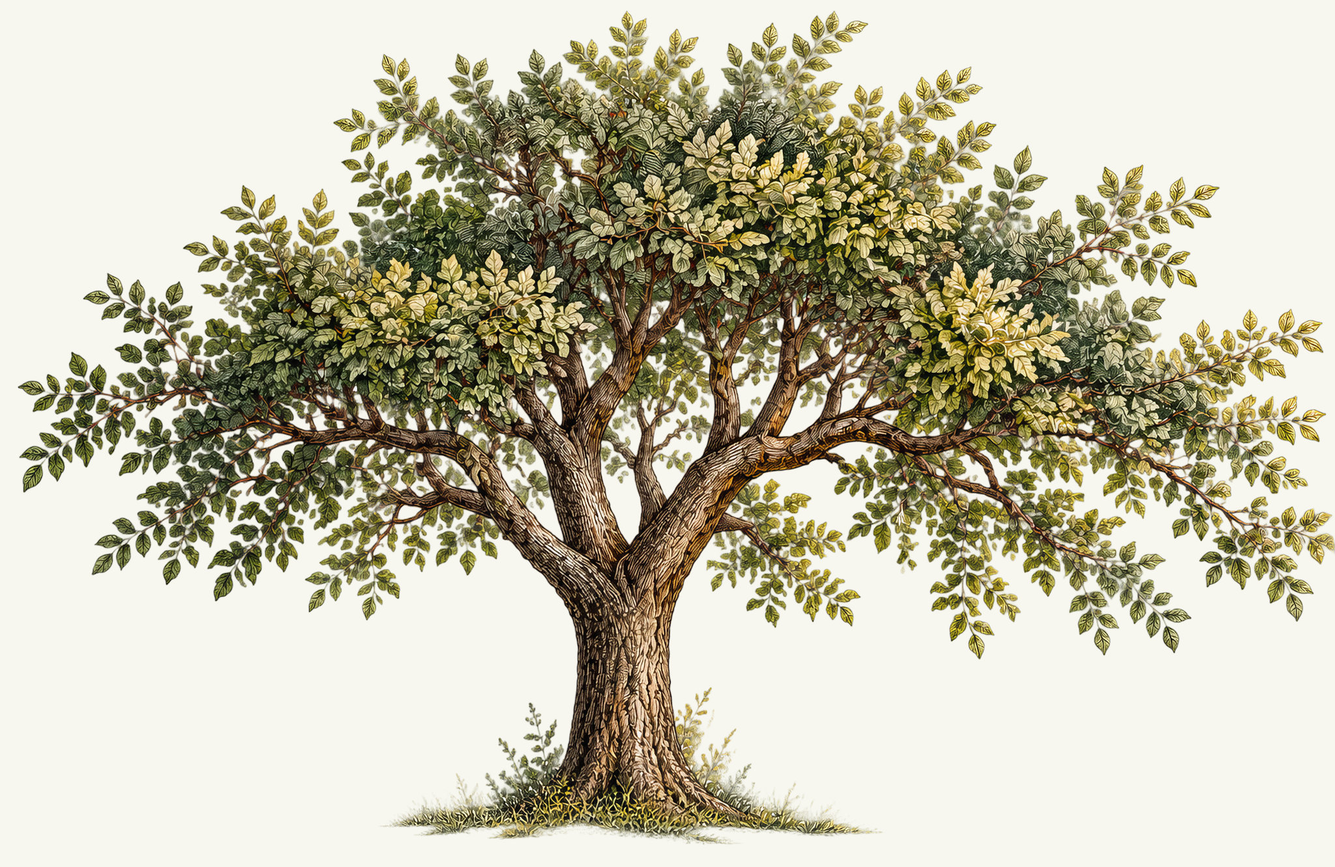
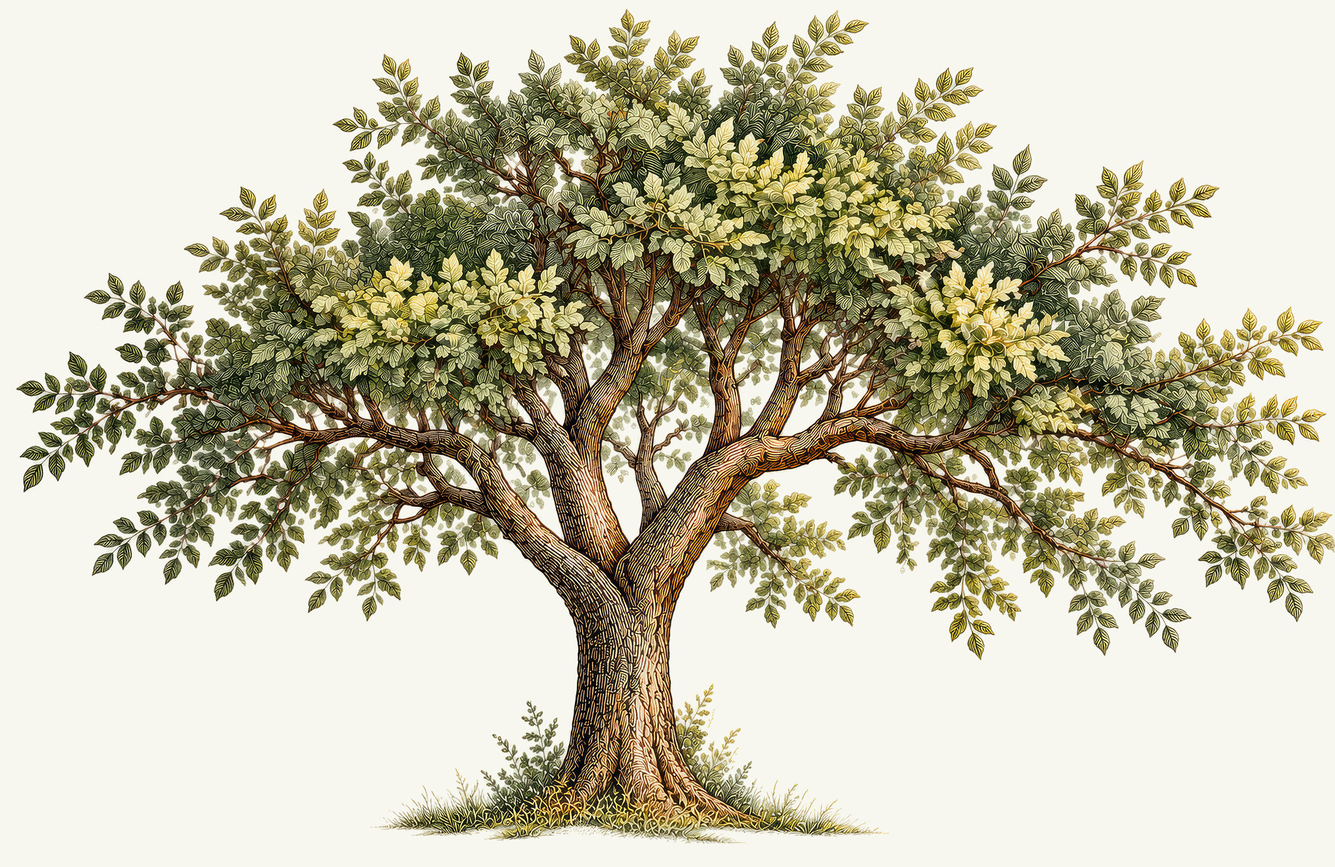
Updated hero tree image

diff --git a/index.html b/index.html
@@ -31,7 +31,7 @@
     <div class="hero-stage">
     <div class="hero-copy"><p class="eyebrow">Terapi Gibi Akademi · Istanbul</p><h1 id="hero-title">There’s a place at this <br>table for you, too!</h1><p class="hero-intro">We read, think and make things together.</p><div class="actions"><a class="button" href="#calendar">Explore the calendar</a><a class="text-link" href="#about">Meet the Akademi</a></div></div>
     <div class="scene-scroll" aria-label="Three different seats beneath a tree: an open invitation to come together.">
-      <div class="scene-sticky"><div class="scene"><canvas class="fx fx-back" aria-hidden="true"></canvas><img class="tree" src="assets-v3/hero-tree.jpg" alt="" fetchpriority="high"><img class="seats" src="assets-v3/hero-seats.png" alt="" fetchpriority="high"><canvas class="fx fx-front" aria-hidden="true"></canvas></div><p class="scroll-cue">Slow down. There’s room for you. <span>↓</span></p></div>
+      <div class="scene-sticky"><div class="scene"><canvas class="fx fx-back" aria-hidden="true"></canvas><img class="tree" src="assets-v3/hero-tree.jpg?v=2" alt="" fetchpriority="high"><img class="seats" src="assets-v3/hero-seats.png" alt="" fetchpriority="high"><canvas class="fx fx-front" aria-hidden="true"></canvas></div><p class="scroll-cue">Slow down. There’s room for you. <span>↓</span></p></div>
     </div>
     </div>
   </section>
